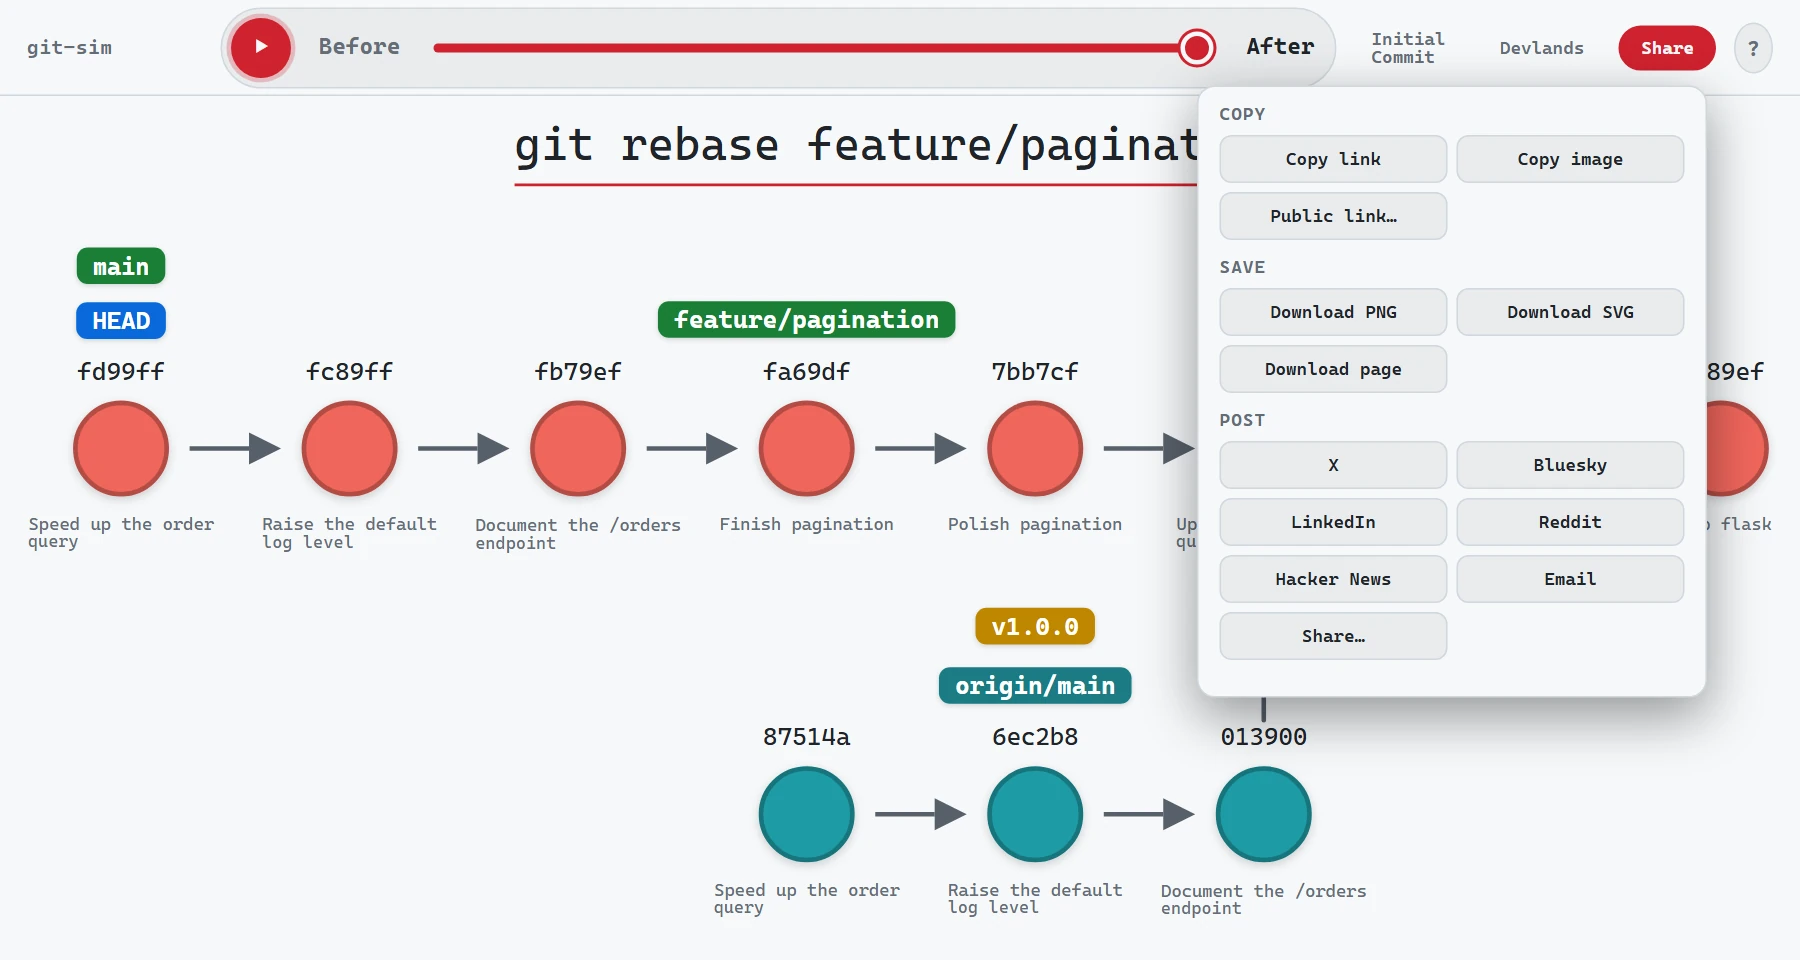
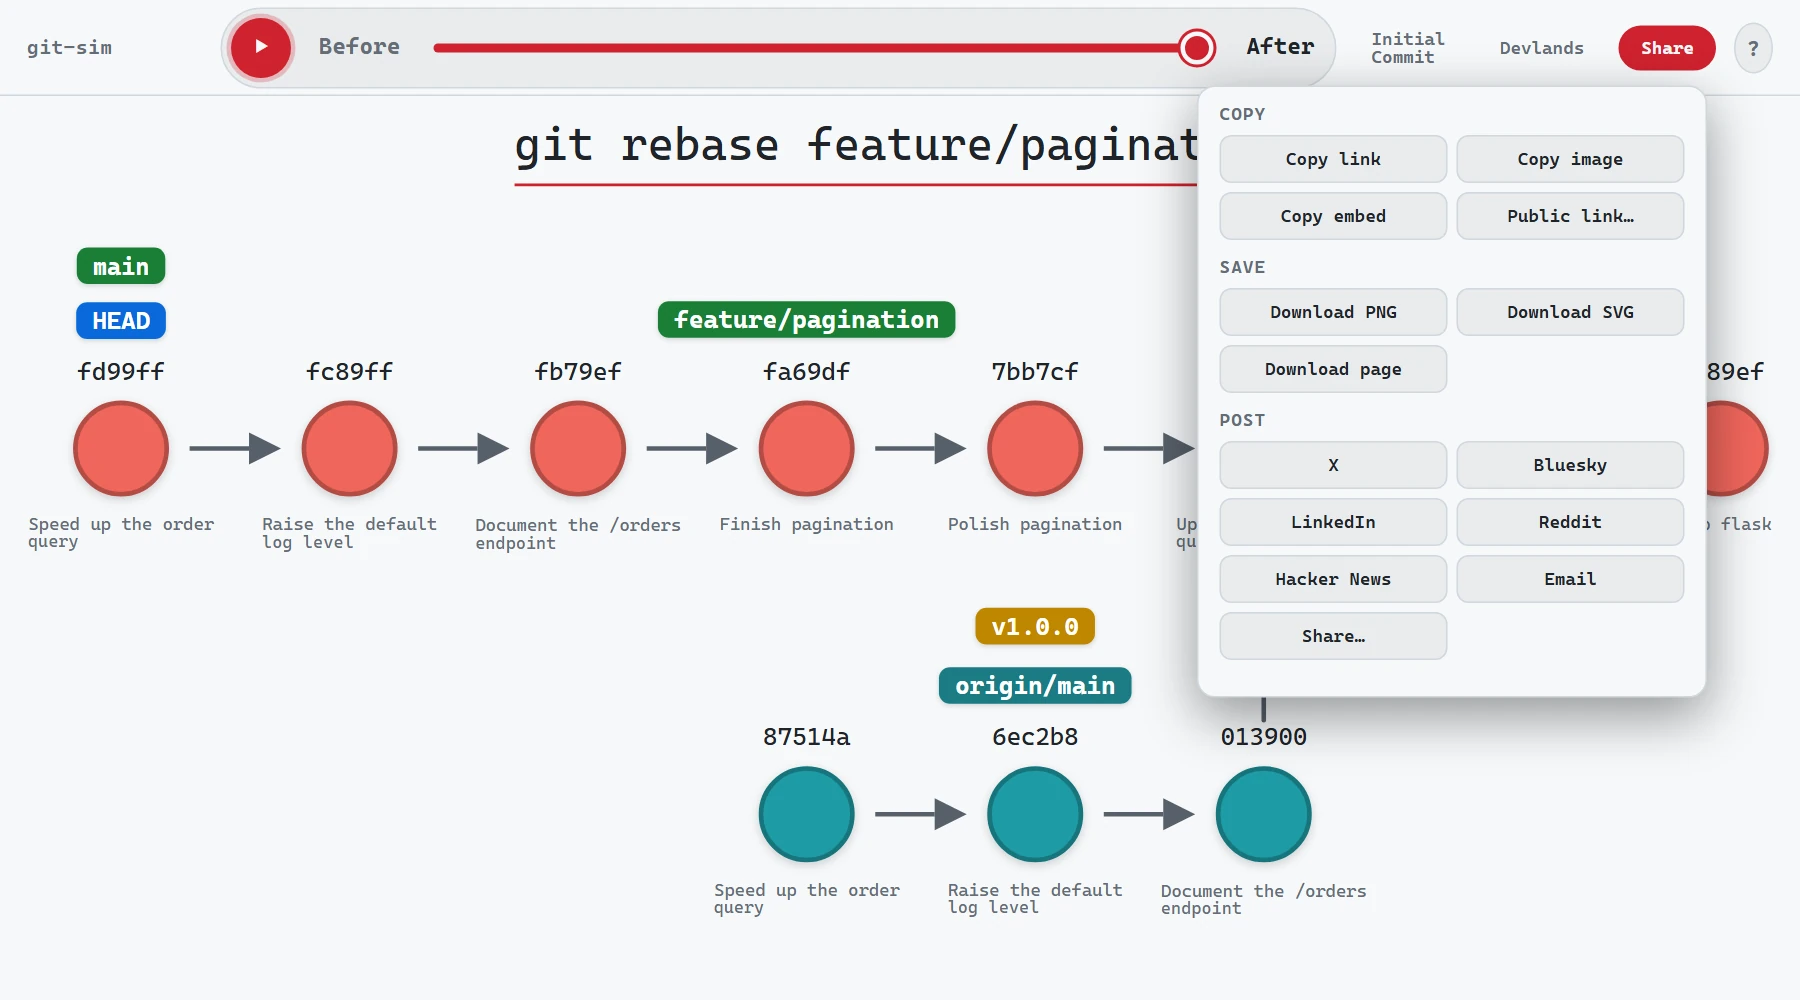
Add Copy embed to the Share menu
The Share menu's Copy row gets a Copy embed button, on every page,
the hosted viewer, the live page, embeds, and VS Code tabs. It copies
the embed snippet with the graph compressed into a data-graph
attribute, as a link's #d= carries it, and the slider's position
pinned, so the reader's page hosts no file. The embed script unpacks
data-graph, and data-src still works for a hosted SVG.

The %gitsim magic also drops a trailing # comment, as a shell does,
so the commented lines in the README's Jupyter step run as written.

diff --git a/src/git_sim/render/embed.py b/src/git_sim/render/embed.py
@@ -18,7 +18,9 @@ fetches the SVG itself (same origin as the post, so no cross-origin setup) and
 hands the text to the frame; the frame reports its height back so the embed
 takes exactly the room the graph needs.
 
-Attributes: ``data-src`` (the SVG, or a saved .html page, which is fetched
+Attributes: ``data-graph`` (the graph itself, compressed as in a git-sim
+link's ``#d=``, which the Share menu's "Copy embed" writes, so the page hosts
+no file) or ``data-src`` (the SVG, or a saved .html page, which is fetched
 into the frame), ``data-title`` (the command, for the share text), ``data-state``
 (``before`` / ``after`` / ``step=N``; else it plays), ``data-theme`` (``dark``
 or ``light``; default follows the host page's ``prefers-color-scheme``),
@@ -110,11 +112,20 @@ EMBED_JS = r"""
     if (line) el.replaceChildren(iframe, line); else el.replaceChildren(iframe);
   }
 
+  // data-graph: the graph compressed the way a git-sim link's #d= carries it
+  // (what the Share menu's "Copy embed" writes), so the page hosts no file
+  async function inflate(b64){
+    const bytes = Uint8Array.from(atob(b64.replace(/-/g, '+').replace(/_/g, '/')), c => c.charCodeAt(0));
+    const stream = new Blob([bytes]).stream().pipeThrough(new DecompressionStream('deflate'));
+    return await new Response(stream).text();
+  }
+
   function mount(el){
     if (el.dataset.gitSimMounted) return;
     el.dataset.gitSimMounted = '1';
-    const src = el.dataset.src;
-    if (!src) { el.textContent = 'git-sim embed: data-src is missing'; return; }
+    const src = el.dataset.src, graph = el.dataset.graph;
+    if (!src && !graph) { el.textContent = 'git-sim embed: data-graph or data-src is missing'; return; }
+    if (graph && typeof DecompressionStream === 'undefined') { el.textContent = 'git-sim embed: this browser cannot unpack the graph (it needs DecompressionStream)'; return; }
     const id = 'gs' + (++counter);
     const iframe = document.createElement('iframe');
     iframe.setAttribute('title', el.dataset.title ? 'git-sim: ' + el.dataset.title : 'git-sim graph');
@@ -122,7 +133,7 @@ EMBED_JS = r"""
     iframe.setAttribute('loading', 'lazy');
     const theme = themeFor(el);
     const controls = (el.dataset.controls || 'full').toLowerCase() === 'compact' ? 'compact' : 'full';
-    if (/\.html?(\?|#|$)/i.test(src)) {
+    if (!graph && /\.html?(\?|#|$)/i.test(src)) {
       // A saved git-sim page (a simulation or a recorded live session): fetched
       // and given to the frame as its document, so a host that refuses to be
       // framed by URL (X-Frame-Options) still shows it; its own script runs it.
@@ -136,9 +147,10 @@ EMBED_JS = r"""
     iframe.srcdoc = documentFor(id, theme, controls, el.dataset.title || '');
     frames.set(id, {iframe, element: el, theme, svg: null, ready: false});
     place(el, iframe);
-    fetch(src, {credentials: 'same-origin'}).then(r => { if (!r.ok) throw new Error(r.status + ' fetching ' + src); return r.text(); })
-      .then(svg => { const f = frames.get(id); f.svg = svg; if (f.ready) deliver(id); })
-      .catch(err => { el.textContent = 'git-sim embed: ' + err.message; });
+    const svgText = graph ? inflate(graph)
+      : fetch(src, {credentials: 'same-origin'}).then(r => { if (!r.ok) throw new Error(r.status + ' fetching ' + src); return r.text(); });
+    svgText.then(svg => { const f = frames.get(id); f.svg = svg; if (f.ready) deliver(id); })
+      .catch(err => { el.textContent = 'git-sim embed: ' + (graph ? 'the graph could not be unpacked' : err.message); });
   }
 
   function deliver(id){
@@ -156,7 +168,7 @@ EMBED_JS = r"""
     }
   });
 
-  function scan(root){ Array.from((root || document).querySelectorAll('.git-sim[data-src]')).forEach(mount); }
+  function scan(root){ Array.from((root || document).querySelectorAll('.git-sim[data-src], .git-sim[data-graph]')).forEach(mount); }
   if (document.readyState === 'loading') document.addEventListener('DOMContentLoaded', () => scan()); else scan();
   window.GitSimEmbed = {mount, scan, version: 1};
 })();

diff --git a/src/git_sim/render/html.py b/src/git_sim/render/html.py
@@ -945,6 +945,21 @@ function makeViewer(root){
       try { await navigator.clipboard.write([new ClipboardItem({'image/png': png})]); say('image copied — paste it anywhere'); }
       catch (e) { download(png, fileName() + '.png'); say('image downloaded'); }
     },
+    // The embed snippet, with the graph compressed into it (as in a link's
+    // fragment) and the slider's position pinned, so nothing needs hosting.
+    // "<\/script>" because this code sits in a page's <script> element, which
+    // a plain closing tag would end.
+    embed: async () => {
+      const s = stateHash();
+      const graph = params.d || await deflate(pristine);
+      const esc = v => String(v).replace(/&/g, '&amp;').replace(/"/g, '&quot;').replace(/</g, '&lt;');
+      // text for the reader's page, never loaded by this one
+      const script = 'https://initialcommit.com/js/tools/git-sim-embed.js';
+      await copyText(`<div class="git-sim" data-graph="${graph}" data-title="${esc(title)}"${s ? ` data-state="${s}"` : ''}>\n` +
+        `  <a href="https://initialcommit.com/tools/git-sim">${esc(title)}, created with git-sim</a>\n</div>\n` +
+        `<script src="${script}" defer><\/script>`);
+      say('embed copied: paste it into your page');
+    },
     png: async () => { await download(await toPng(2), fileName() + '.png'); if (!editor) say('PNG downloaded'); },
     svg: async () => { await download(new Blob([pristine], {type: 'image/svg+xml'}), fileName() + '.svg'); if (!editor) say('SVG downloaded'); },
     html: async () => { await download(new Blob(['<!DOCTYPE html>\n' + document.documentElement.outerHTML], {type: 'text/html'}), fileName() + '.html'); if (!editor) say('page downloaded'); },
@@ -1014,6 +1029,7 @@ function makeViewer(root){
     Promise.resolve().then(() => actions[b.dataset.action]()).catch(() => say('could not share'));
   });
   if (!navigator.share) $('[data-action="native"]', shareMenu).forEach(el => el.remove());
+  if (!canPack) $('[data-action="embed"]', shareMenu).forEach(el => el.remove());
 
   // A public link: the graph kept on initialcommit.com under a short address,
   // with a share card drawn here from the graph itself, so a posted link shows
@@ -1245,6 +1261,7 @@ def header_markup(fragment_attr=""):
         '<h3>Copy</h3><div class="grid">'
         '<button data-action="link" title="a link that opens this graph in the git-sim viewer at the current slider position. The graph itself stays in the link\'s #fragment; the command and a short text graph (git log --oneline, up to 12 lines) go in the query string so the link gets a preview card when posted">Copy link</button>'
         '<button data-action="image" title="a PNG of the graph as shown right now, on your clipboard">Copy image</button>'
+        '<button data-action="embed" title="HTML that puts this interactive graph in your own page, blog post, or docs. The graph travels inside the HTML, so there is no file to host">Copy embed</button>'
         '<button data-action="public" title="a short link to this graph, kept on initialcommit.com, that shows the graph itself when posted">Public link…</button>'
         "</div>"
         '<div id="publicPanel" hidden>'

diff --git a/tests/unit_tests/test_interactive.py b/tests/unit_tests/test_interactive.py
@@ -103,6 +103,9 @@ def test_html_page_is_self_contained_and_wires_the_controls(tmp_path):
     assert 'href="https://devlands.com"' in page
     assert 'id="help"' in page and 'id="helpMenu"' in page
     assert 'id="share"' in page and 'data-action="image"' in page
+    assert 'data-action="embed"' in page and 'data-graph="${graph}"' in page
+    # the snippet's closing script tag is escaped, or it would end the page's own script
+    assert 'defer><\\/script>`' in page
     assert "intent/tweet" in page and "bsky.app" in page and "linkedin.com" in page
     assert "startPlay();" in page and "before|after|step=" in page, "plays on open"
     assert "/^step=\\d+$/.test(raw)" in page, "#step=N is a pinned state, not a key"

diff --git a/tests/unit_tests/test_embed.py b/tests/unit_tests/test_embed.py
@@ -33,6 +33,8 @@ def repo(tmp_path):
 def test_embed_script_carries_the_viewer_and_mounts_by_class():
     js = build_embed_js()
     assert "window.GitSimEmbed" in js and ".git-sim[data-src]" in js
+    # the graph can come inside the snippet, as the Share menu's "Copy embed" writes it
+    assert ".git-sim[data-graph]" in js and "DecompressionStream('deflate')" in js
     # the viewer's stylesheet, header and script travel inside, as JSON strings
     assert "#bar{position:sticky" in js and 'id=\\"toBefore\\"' in js
     assert "function makeViewer(root){" in js and "window.GitSimViewer = Object.assign(makeViewer(document)" in js

diff --git a/src/git_sim/jupyter.py b/src/git_sim/jupyter.py
@@ -33,7 +33,8 @@ def parse_line(line: str) -> Tuple[List[str], Optional[int], Optional[str]]:
     """Split a magic line into git-sim arguments, the iframe height (None to
     fit the graph) and the repository path (our own options are taken off the
     front)."""
-    words = shlex.split(line, posix=(os.name != "nt"))
+    # a trailing "# comment" is dropped, as a shell does (IPython passes it on)
+    words = shlex.split(line, comments=True, posix=(os.name != "nt"))
     height, repo = None, None
     while words and words[0] in ("--height", "-C", "--repo"):
         flag = words.pop(0)

diff --git a/tests/unit_tests/test_jupyter.py b/tests/unit_tests/test_jupyter.py
@@ -21,6 +21,10 @@ def test_the_magic_line_splits_our_options_from_gits():
         "HEAD~1",
     ]
     assert parse_line("") == ([], None, None)
+    # a comment after the command is not part of it, but a quoted # is
+    assert parse_line("rebase main   # replay onto main")[0] == ["rebase", "main"]
+    assert parse_line('commit -m "fix #12"')[0][:2] == ["commit", "-m"]
+    assert "#12" in parse_line('commit -m "fix #12"')[0][2]
 
 
 def test_the_page_is_framed_with_its_markup_escaped():

diff --git a/README.md b/README.md
@@ -52,7 +52,7 @@
 
 **Share any git-sim visualization** as a link, an embed, an HTML page, a PNG or SVG image, an MP4 video, or a social post.
 
-[![git-sim's Share menu: copy a link or image, make a public link, download a PNG, SVG, or page, or post to X, Bluesky, LinkedIn, Reddit, Hacker News, or email](https://raw.githubusercontent.com/initialcommit-com/git-sim/main/docs/img/share.webp)](https://initialcommit.com/tools/git-sim/viewer?demo=rebase)
+[![git-sim's Share menu: copy a link, an image, or an embed, make a public link, download a PNG, SVG, or page, or post to X, Bluesky, LinkedIn, Reddit, Hacker News, or email](https://raw.githubusercontent.com/initialcommit-com/git-sim/main/docs/img/share.webp)](https://initialcommit.com/tools/git-sim/viewer?demo=rebase)
 
 </td></tr></tbody>
 </table>
@@ -109,10 +109,10 @@ Or search for **git-sim** in the Extensions view (the Marketplace in VS Code, Op
 **5. Jupyter Notebook integration:** after installing git-sim in the notebook's Python environment:
 
 ```
-%load_ext git_sim.jupyter
-%gitsim rebase main
-%gitsim live
-%gitsim live stop
+%load_ext git_sim.jupyter   # once per notebook: adds the %gitsim magic
+%gitsim rebase main         # the interactive graph, right under the cell
+%gitsim live                # a live graph that follows the repo as it changes
+%gitsim live stop           # stops live mode (so does restarting the kernel)
 ```
 
 From Jupyter, git-sim simulates Git commands against the repo in the notebook's working directory, or path specified after the `-C` flag.
@@ -284,20 +284,16 @@ Or in any client that supports stdio servers:
 
 ## Embed a graph in a web page
 
-Embed a git-sim graph in any web page, blog post, tutorial, or docs, with the full interactive viewer. Save the graph as an SVG (or use **Download SVG** in any git-sim page's Share menu):
-
-```console
-$ git-sim --img-format svg rebase main
-```
-
-Copy it next to your page, then add:
+Embed a git-sim graph in any web page, blog post, tutorial, or docs, with the full interactive viewer. Click **Copy embed** in any git-sim graph's Share menu, and paste the HTML into your page:
 
 ```html
-<div class="git-sim" data-src="/img/rebase-main.svg" data-title="git rebase main">
+<div class="git-sim" data-graph="eJzVXWtvo0gW_SuI0a52..." data-title="git rebase main">
   <a href="https://initialcommit.com/tools/git-sim">git rebase main, created with git-sim</a>
 </div>
 <script src="https://initialcommit.com/js/tools/git-sim-embed.js" defer></script>
 ```
+
+The graph travels inside `data-graph`, so there's no file to host. To host it as a file instead, save the SVG with `git-sim --img-format svg rebase main` (or **Download SVG** in the Share menu), and use `data-src="/path/to/graph.svg"` in place of `data-graph`.
 
 ## Supported Git commands
 

diff --git a/vscode/CHANGELOG.md b/vscode/CHANGELOG.md
@@ -2,8 +2,8 @@
 
 ## 0.4.0
 
-- Share works from an editor tab: **Copy link** puts the link on the
-  clipboard, **PNG**, **SVG** and **HTML page** save through a save dialog,
+- Share works from an editor tab: **Copy link** and **Copy embed** put the
+  link or the embed HTML on the clipboard, **PNG**, **SVG** and **HTML page** save through a save dialog,
   and posting to X, Bluesky, LinkedIn, Reddit or Hacker News opens in your
   browser. (A tab cannot copy an image, so **Copy image** saves the PNG.)
   The same goes for the live graph and recorded sessions. Needs a git-sim
